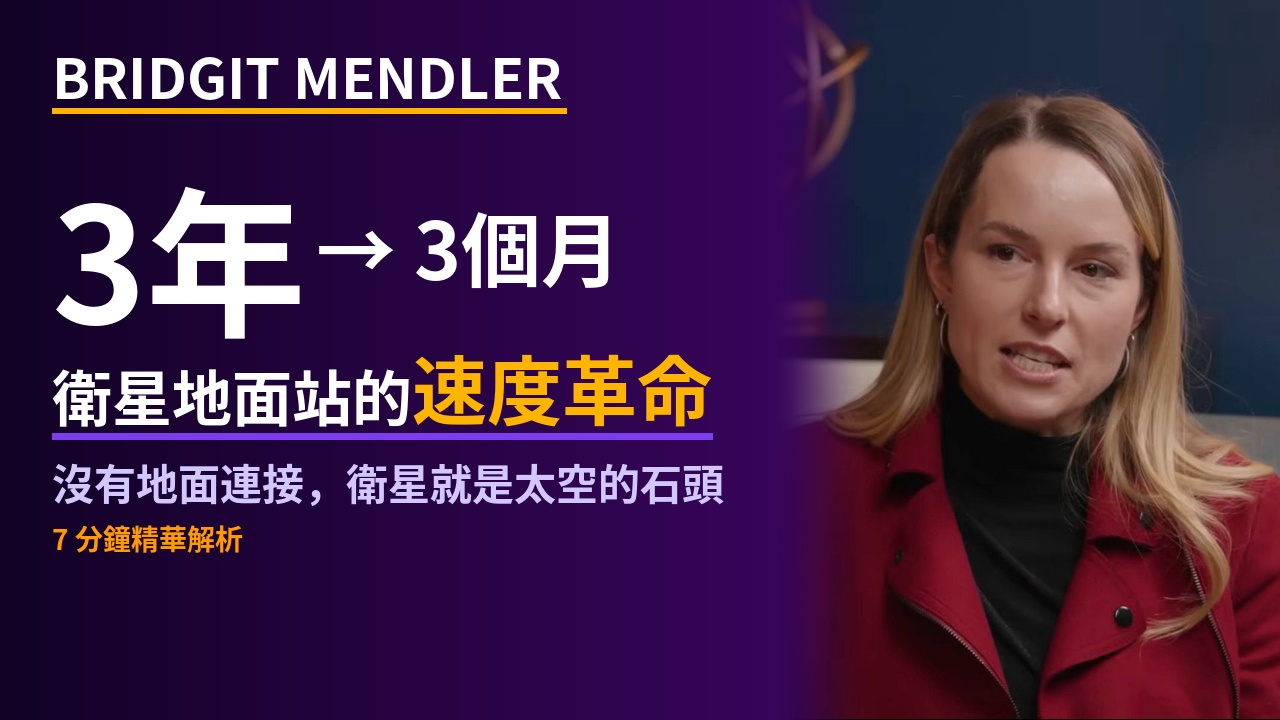
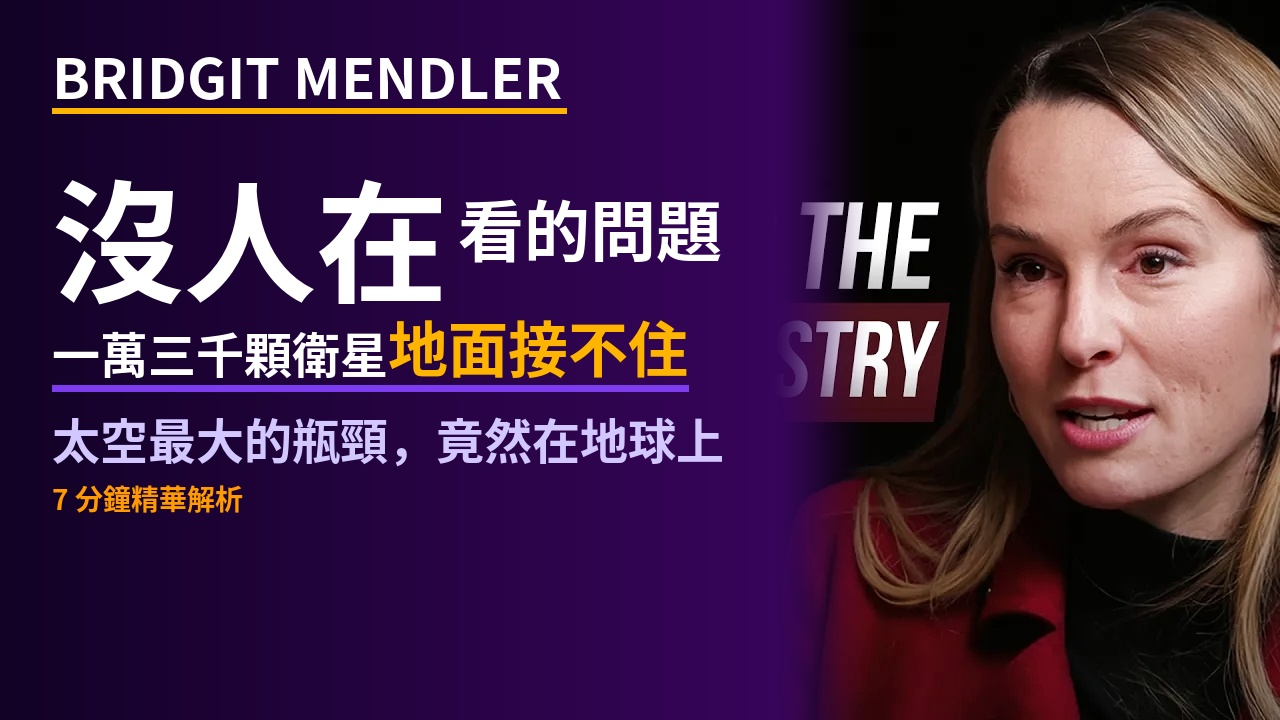
stage: northwood 封面重製 A批判/B危機/C啟發 + 正確照片

diff --git a/northwood/index.html b/northwood/index.html
@@ -81,21 +81,21 @@ h1 { font-size: 1.4em; color: #fff; border-bottom: 2px solid #222; padding-botto
   <div class="thumb-grid">
 
     <div class="thumb-proposal">
-      <div class="proposal-label">提案 A · 數字衝擊</div>
+      <div class="proposal-label">提案 A · 批判性</div>
       <img src="thumb_options/final_A.jpg" alt="封面提案 A" style="width:100%;display:block;">
       <div class="proposal-big">3年 → 3個月</div>
       <div class="proposal-sub">衛星地面站的速度革命</div>
     </div>
 
     <div class="thumb-proposal">
-      <div class="proposal-label">提案 B · 反直覺</div>
+      <div class="proposal-label">提案 B · 危機感</div>
       <img src="thumb_options/final_B.jpg" alt="封面提案 B" style="width:100%;display:block;">
       <div class="proposal-big">太空石頭的真相</div>
       <div class="proposal-sub">衛星上太空了，但沒人接收</div>
     </div>
 
     <div class="thumb-proposal">
-      <div class="proposal-label">提案 C · 人物故事</div>
+      <div class="proposal-label">提案 C · 啟發性</div>
       <img src="thumb_options/final_C.jpg" alt="封面提案 C" style="width:100%;display:block;">
       <div class="proposal-big">迪士尼到太空</div>
       <div class="proposal-sub">她拿下了五千萬合約</div>
